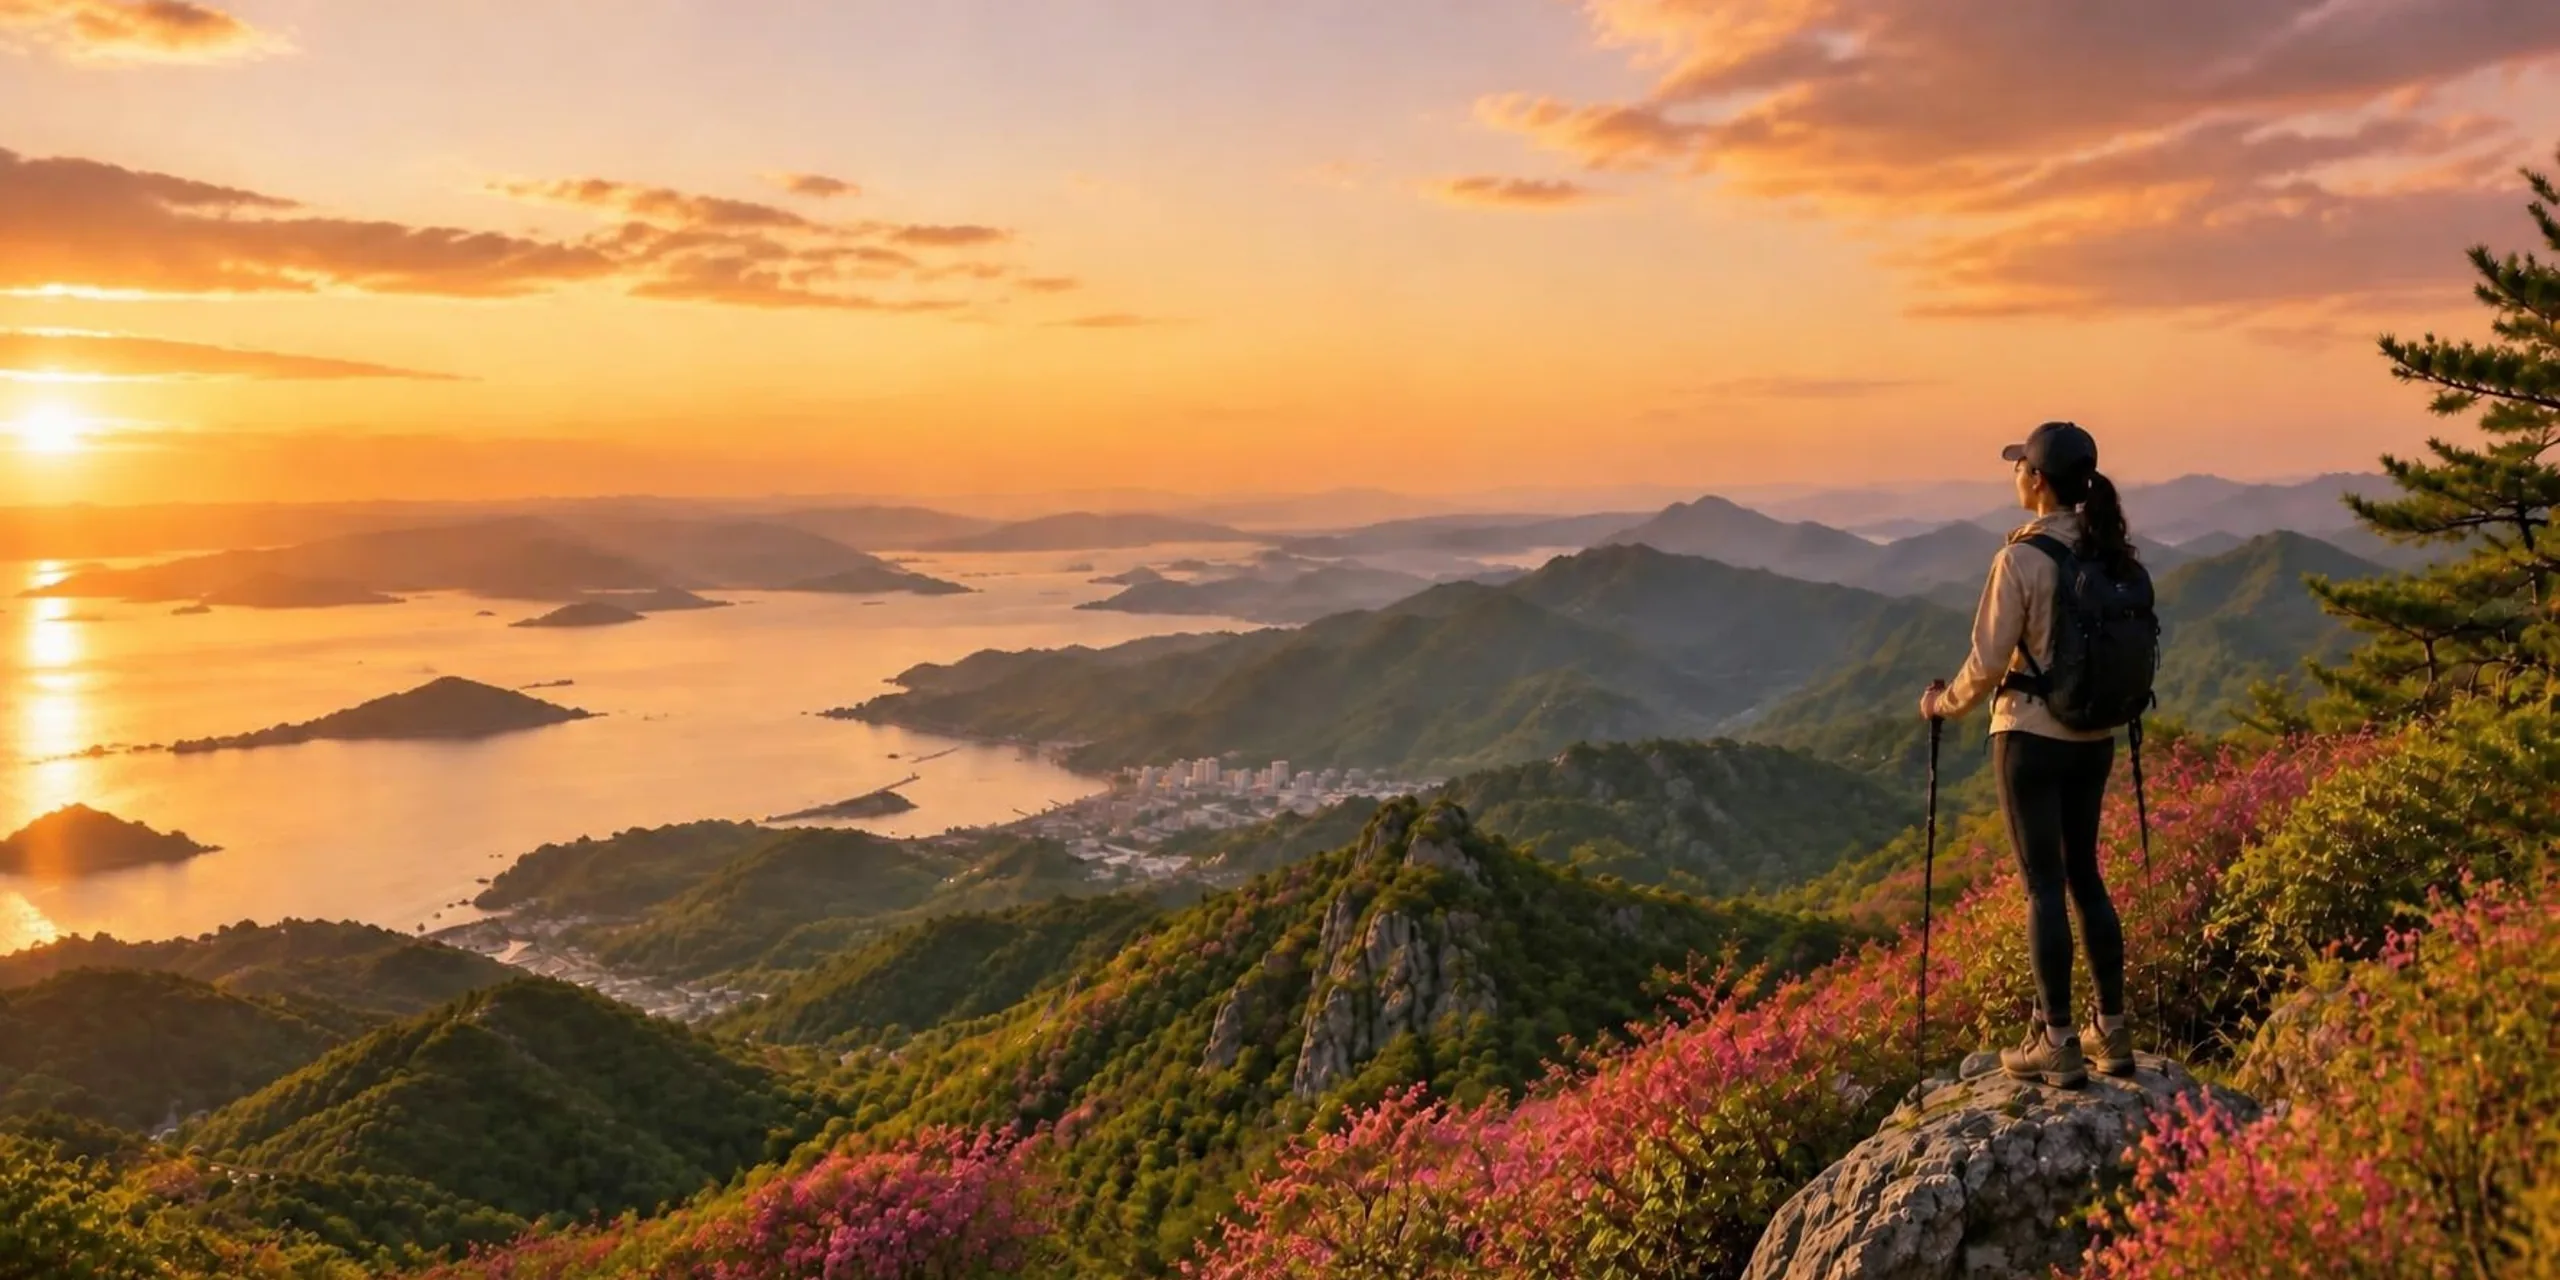
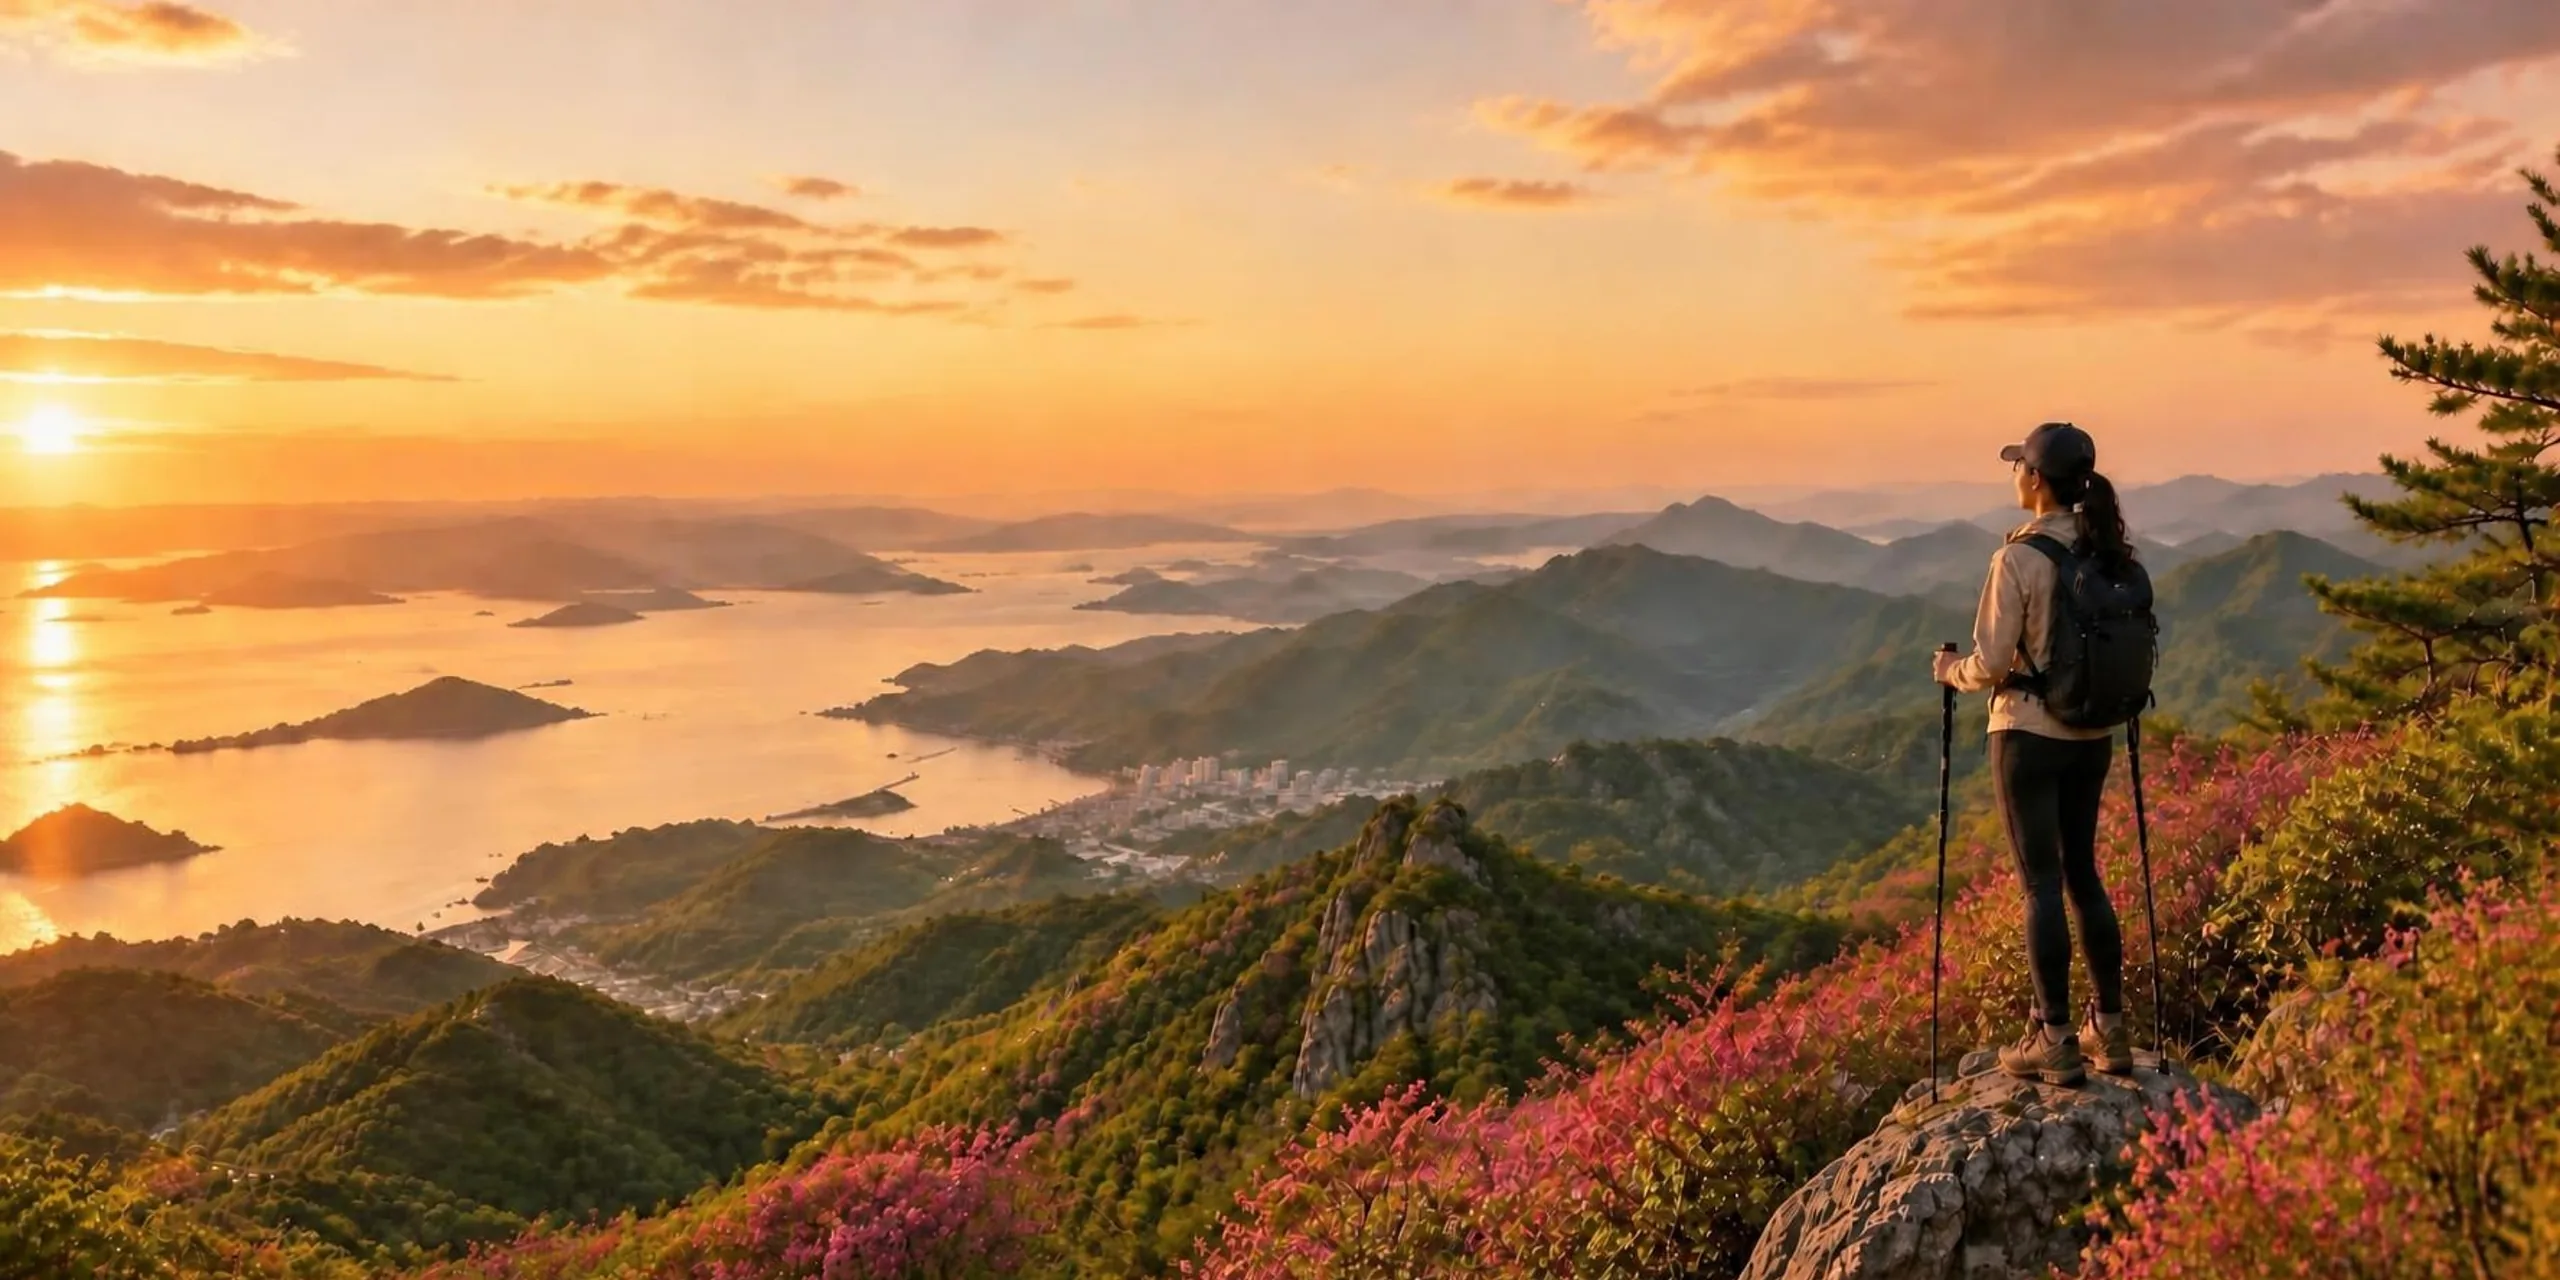
히어로 봄 저녁 v7 적용 (승인 참조 기준 검수 통과) (#37)
- 승인 참조(신발 기준)로 재생성, 신발 형태 기준과 동일 확인
- 다리 2개·폴 2개, 발목/부츠 윤곽 단일, 배경 결함 없음
- READY에 spring-evening 추가

Claude-Session: https://claude.ai/code/session_01TTPn3ts8fEyWREDupZmwxM

diff --git a/_src.html b/_src.html
@@ -13,7 +13,7 @@
 (function(){var k="";try{var d=new Date(),M=d.getMonth()+1,h=d.getHours();
 var s=M>=3&&M<=5?"spring":M>=6&&M<=8?"summer":M>=9&&M<=11?"autumn":"winter";
 var t=h>=4&&h<7?"dawn":h>=7&&h<17?"day":h>=17&&h<21?"evening":"night";k=s+"-"+t;
-var READY={"spring-dawn":1,"spring-day":1};/* 검수 통과분만 노출, 나머지는 원본 히어로 */
+var READY={"spring-dawn":1,"spring-day":1,"spring-evening":1};/* 검수 통과분만 노출, 나머지는 원본 히어로 */
 window.__heroReady=READY;if(!READY[k])k="";
 var q=/[?&]hero=((?:spring|summer|autumn|winter)-(?:dawn|day|evening|night))(?:&|$)/.exec(location.search);if(q&&READY[q[1]])k=q[1];}catch(e){k="";}
 window.__hero=k;var a=k?"/img/hero/"+k:"/img/hero",b=k?"/img/hero/"+k+"-m.webp":"/img/hero-m.webp";
@@ -333,7 +333,7 @@ footer{background:var(--dark);color:rgba(255,255,255,.5);border-top:1px solid rg
       <img class="bg" id="heroImg" width="2560" height="1280" alt="산 정상 바위에 서서 다도해와 겹겹의 산줄기를 바라보는 등산객" fetchpriority="high" />
     </picture>
     <script>(function(){var k=window.__hero,i=document.getElementById("heroImg"),s=document.getElementById("heroSrc"),w=document.getElementById("bgwrap");
-var C={"spring-dawn":["#b5a7c2","#434456"],"spring-day":["#89b1ce","#55594c"],"spring-evening":["#d19b6d","#6d4e2d"],"spring-night":["#11253b","#0e1217"],"summer-dawn":["#dcbba1","#5f5642"],"summer-day":["#75abe1","#3a5f55"],"summer-evening":["#c78665","#594429"],"summer-night":["#0f2951","#0c1826"],"autumn-dawn":["#9482ba","#5c4159"],"autumn-day":["#81b5db","#6b5e5b"],"autumn-evening":["#c69164","#693821"],"autumn-night":["#1b293a","#17151a"],"winter-dawn":["#a8acce","#475986"],"winter-day":["#afcfee","#77879c"],"winter-evening":["#8d7575","#4e3f4f"],"winter-night":["#182742","#1c273d"]};function fb(){s.srcset="/img/hero-m.webp";i.src="/img/hero.webp";w.style.backgroundImage="";}
+var C={"spring-dawn":["#b5a7c2","#434456"],"spring-day":["#89b1ce","#55594c"],"spring-evening":["#d7a373","#75522f"],"spring-night":["#11253b","#0e1217"],"summer-dawn":["#dcbba1","#5f5642"],"summer-day":["#75abe1","#3a5f55"],"summer-evening":["#c78665","#594429"],"summer-night":["#0f2951","#0c1826"],"autumn-dawn":["#9482ba","#5c4159"],"autumn-day":["#81b5db","#6b5e5b"],"autumn-evening":["#c69164","#693821"],"autumn-night":["#1b293a","#17151a"],"winter-dawn":["#a8acce","#475986"],"winter-day":["#afcfee","#77879c"],"winter-evening":["#8d7575","#4e3f4f"],"winter-night":["#182742","#1c273d"]};function fb(){s.srcset="/img/hero-m.webp";i.src="/img/hero.webp";w.style.backgroundImage="";}
 if(!k){fb();return;}i.addEventListener("error",function(){if(!i.getAttribute("data-fb")){i.setAttribute("data-fb","1");fb();}});
 if(C[k])w.style.backgroundImage="linear-gradient(180deg,"+C[k][0]+","+C[k][1]+")";
 s.srcset="/img/hero/"+k+"-m.webp";i.src="/img/hero/"+k+".webp";})();</script>

diff --git a/index.html b/index.html
@@ -13,7 +13,7 @@
 (function(){var k="";try{var d=new Date(),M=d.getMonth()+1,h=d.getHours();
 var s=M>=3&&M<=5?"spring":M>=6&&M<=8?"summer":M>=9&&M<=11?"autumn":"winter";
 var t=h>=4&&h<7?"dawn":h>=7&&h<17?"day":h>=17&&h<21?"evening":"night";k=s+"-"+t;
-var READY={"spring-dawn":1,"spring-day":1};/* 검수 통과분만 노출, 나머지는 원본 히어로 */
+var READY={"spring-dawn":1,"spring-day":1,"spring-evening":1};/* 검수 통과분만 노출, 나머지는 원본 히어로 */
 window.__heroReady=READY;if(!READY[k])k="";
 var q=/[?&]hero=((?:spring|summer|autumn|winter)-(?:dawn|day|evening|night))(?:&|$)/.exec(location.search);if(q&&READY[q[1]])k=q[1];}catch(e){k="";}
 window.__hero=k;var a=k?"/img/hero/"+k:"/img/hero",b=k?"/img/hero/"+k+"-m.webp":"/img/hero-m.webp";
@@ -333,7 +333,7 @@ footer{background:var(--dark);color:rgba(255,255,255,.5);border-top:1px solid rg
       <img class="bg" id="heroImg" width="2560" height="1280" alt="산 정상 바위에 서서 다도해와 겹겹의 산줄기를 바라보는 등산객" fetchpriority="high" />
     </picture>
     <script>(function(){var k=window.__hero,i=document.getElementById("heroImg"),s=document.getElementById("heroSrc"),w=document.getElementById("bgwrap");
-var C={"spring-dawn":["#b5a7c2","#434456"],"spring-day":["#89b1ce","#55594c"],"spring-evening":["#d19b6d","#6d4e2d"],"spring-night":["#11253b","#0e1217"],"summer-dawn":["#dcbba1","#5f5642"],"summer-day":["#75abe1","#3a5f55"],"summer-evening":["#c78665","#594429"],"summer-night":["#0f2951","#0c1826"],"autumn-dawn":["#9482ba","#5c4159"],"autumn-day":["#81b5db","#6b5e5b"],"autumn-evening":["#c69164","#693821"],"autumn-night":["#1b293a","#17151a"],"winter-dawn":["#a8acce","#475986"],"winter-day":["#afcfee","#77879c"],"winter-evening":["#8d7575","#4e3f4f"],"winter-night":["#182742","#1c273d"]};function fb(){s.srcset="/img/hero-m.webp";i.src="/img/hero.webp";w.style.backgroundImage="";}
+var C={"spring-dawn":["#b5a7c2","#434456"],"spring-day":["#89b1ce","#55594c"],"spring-evening":["#d7a373","#75522f"],"spring-night":["#11253b","#0e1217"],"summer-dawn":["#dcbba1","#5f5642"],"summer-day":["#75abe1","#3a5f55"],"summer-evening":["#c78665","#594429"],"summer-night":["#0f2951","#0c1826"],"autumn-dawn":["#9482ba","#5c4159"],"autumn-day":["#81b5db","#6b5e5b"],"autumn-evening":["#c69164","#693821"],"autumn-night":["#1b293a","#17151a"],"winter-dawn":["#a8acce","#475986"],"winter-day":["#afcfee","#77879c"],"winter-evening":["#8d7575","#4e3f4f"],"winter-night":["#182742","#1c273d"]};function fb(){s.srcset="/img/hero-m.webp";i.src="/img/hero.webp";w.style.backgroundImage="";}
 if(!k){fb();return;}i.addEventListener("error",function(){if(!i.getAttribute("data-fb")){i.setAttribute("data-fb","1");fb();}});
 if(C[k])w.style.backgroundImage="linear-gradient(180deg,"+C[k][0]+","+C[k][1]+")";
 s.srcset="/img/hero/"+k+"-m.webp";i.src="/img/hero/"+k+".webp";})();</script>
